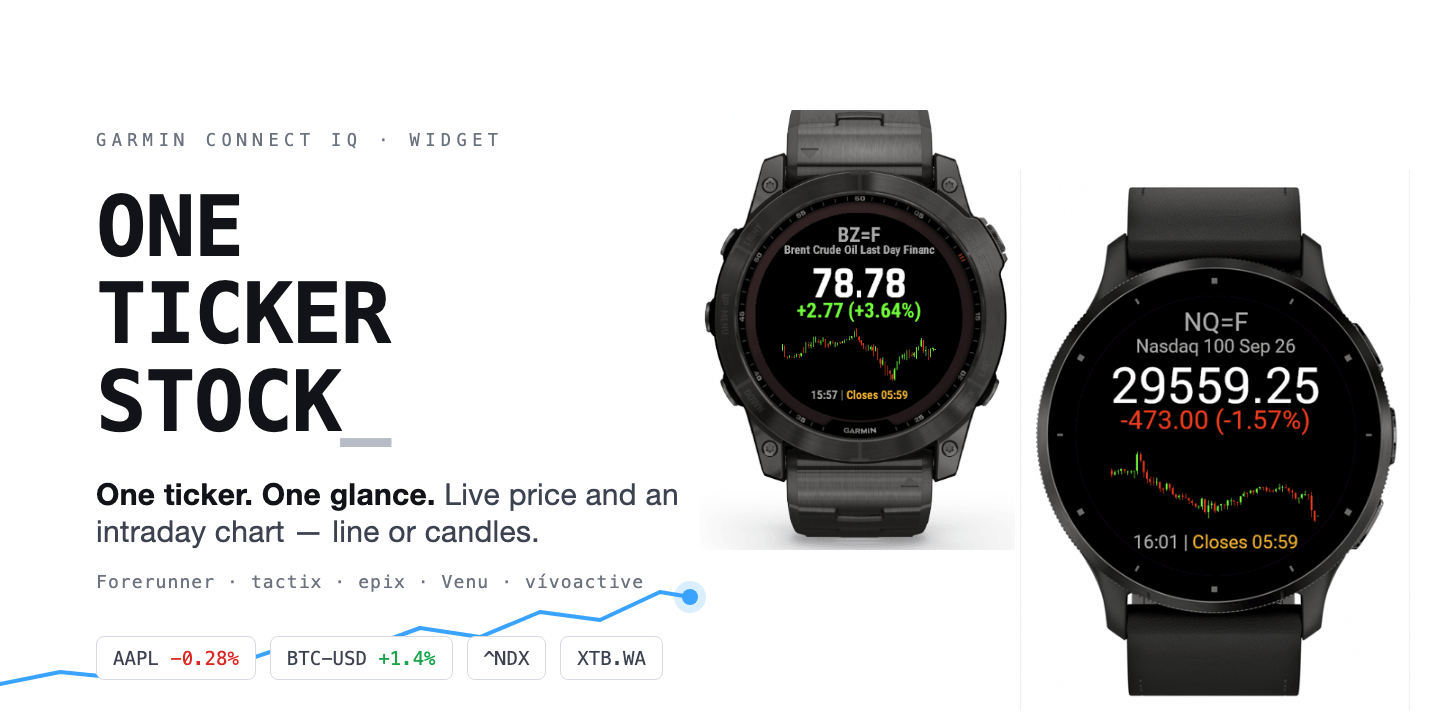
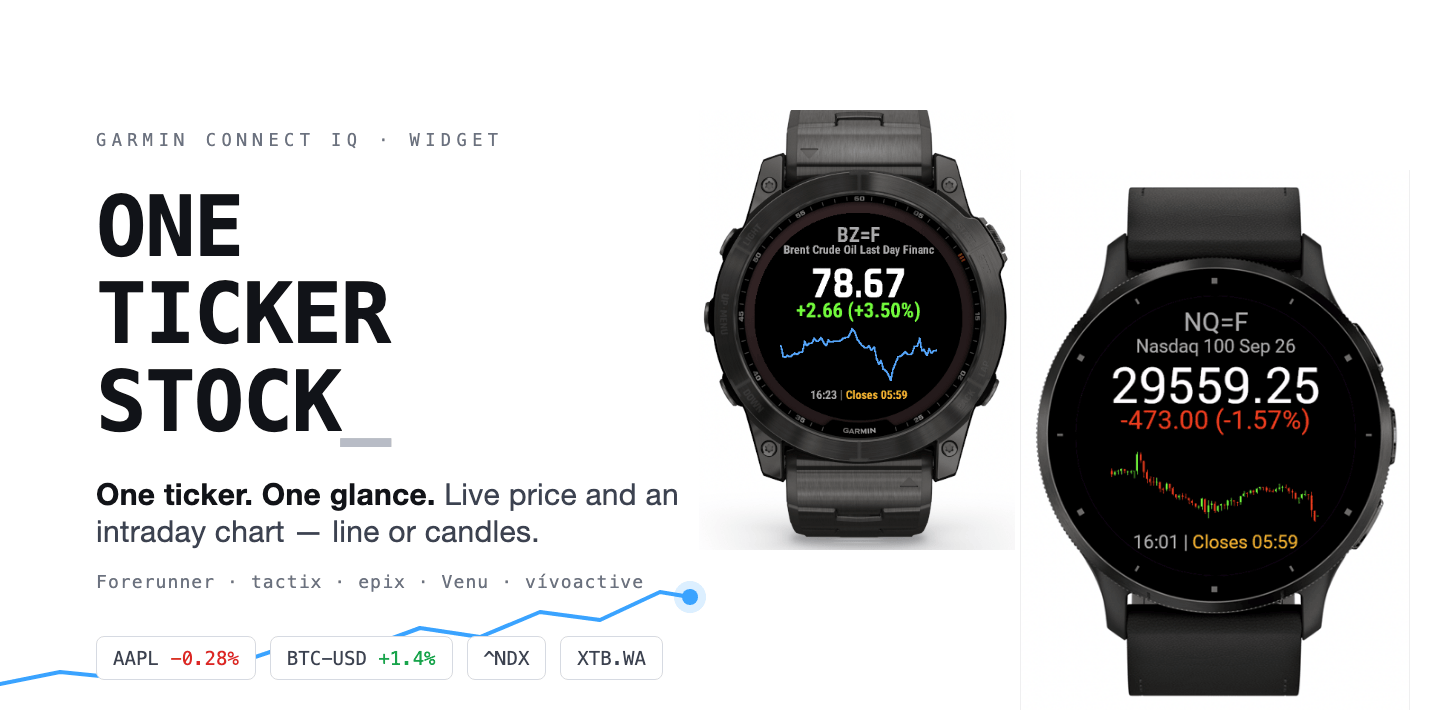
docs: refresh store cover and show both chart types on the hero

Changed region(s): [[0.5, 0.3361, 0.6562, 0.55], [0.5312, 0.4889, 0.5625, 0.5194], [0.5, 0.5194, 0.5312, 0.55]]

diff --git a/docs/store-hero.html b/docs/store-hero.html
@@ -118,7 +118,7 @@
       <circle cx="690" cy="597" r="8" fill="#3aa3ff" />
       <circle cx="690" cy="597" r="16" fill="#3aa3ff" opacity="0.18" />
     </svg>
-    <img class="watch-back" src="../docs/screenshots/brent.png" alt="" />
+    <img class="watch-back" src="../docs/store-hero-tactix.png" alt="" />
     <img class="watch-front" src="../docs/screenshots/nasdaq100.png" alt="" />
     <div class="content">
       <div class="eyebrow">GARMIN CONNECT IQ &middot; WIDGET</div>

diff --git a/docs/store-listing.md b/docs/store-listing.md
@@ -68,9 +68,12 @@ version.
 
 ## Artwork
 
-- Hero Image (1440×720, optional): `docs/store-hero.png` (source:
-  `docs/store-hero.html`, rendered with headless Chromium at 1440×720)
-- Cover Image (500×500, required): `docs/store-cover.png`
+- Hero Image (1440×720, optional): `docs/store-hero.png` — tactix 7 with a
+  line chart (`docs/store-hero-tactix.png`) next to Venu 3 with candles
+  (`docs/screenshots/nasdaq100.png`); source: `docs/store-hero.html`,
+  rendered with headless Chromium at 1440×720
+- Cover Image (500×500, required): `docs/store-cover.png` — Venu 3 face
+  with NQ=F candles
 - Screenshots (at least 1, each < 150 kB), each taken on a different watch
   model: `docs/screenshots/apple.png` (Forerunner 945), `bitcoin.png`
   (epix Pro Gen 2), `brent.png` (tactix 7, candlestick mode),
